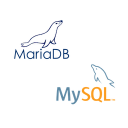
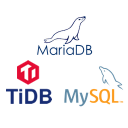
[Feature] TiDB driver and ssl options support (#1113)
* [Feature] TiDB driver and ssl options support

* [Document] Added TiDB to document

* Fix breakage caused by merge error

* Fix typecheck problem in /util during build

/util/cache/index.ts uses lru-cache@5.1.1 but TS module resolution
was overlooking this because its package.json lacks a `types` property.
Instead TS was finding lru-cache@7 in the root node_modules which is
pulled in by other package(s).

* Make multi-statement query show results

---------

Changed region(s): [[0.0938, 0.125, 0.7188, 0.6562], [0.4375, 0.5, 0.9688, 0.8438], [0.0312, 0.6875, 0.4062, 0.8125]]

diff --git a/packages/driver.mysql/src/ls/default.ts b/packages/driver.mysql/src/ls/default.ts
@@ -1,4 +1,4 @@
-import MySQLLib from 'mysql';
+import MySQLLib from 'mysql2';
 import AbstractDriver from '@sqltools/base-driver';
 import * as Queries from './queries';
 import fs from 'fs';
@@ -7,7 +7,7 @@ import {countBy} from 'lodash';
 import { parse as queryParse } from '@sqltools/util/query';
 import generateId from '@sqltools/util/internal-id';
 
-export default class MySQLDefault extends AbstractDriver<MySQLLib.Pool, MySQLLib.PoolConfig> implements IConnectionDriver {
+export default class MySQLDefault extends AbstractDriver<MySQLLib.Pool, MySQLLib.PoolOptions> implements IConnectionDriver {
   queries = Queries;
   public open() {
     if (this.connection) {
@@ -40,12 +40,9 @@ export default class MySQLDefault extends AbstractDriver<MySQLLib.Pool, MySQLLib
     return new Promise<MySQLLib.Pool>((resolve, reject) => {
       pool.getConnection((err, conn) => {
         if (err) return reject(err);
-        conn.ping(error => {
-          if (error) return reject(error);
-          this.connection = Promise.resolve(pool);
-          conn.release();
-          return resolve(this.connection);
-        });
+        this.connection = Promise.resolve(pool);
+        conn.release();
+        return resolve(this.connection);
       });
     });
   }
@@ -72,17 +69,18 @@ export default class MySQLDefault extends AbstractDriver<MySQLLib.Pool, MySQLLib
           if (error) return reject(error);
           try {
             const queries = queryParse(query.toString());
+            var resultAny: any = results;
 
             // Shape of results and fields is different when querystring contains multiple queries
             if (results && !Array.isArray(results[0]) && typeof results[0] !== 'undefined') {
-              results = [results];
+              resultAny = [results];
             }
             if (fields && !Array.isArray(fields[0]) && typeof fields[0] !== 'undefined') {
               fields = [fields];
             }
             
             return resolve(queries.map((q, i): NSDatabase.IResult => {
-              const r = results[i] || [];
+              const r = resultAny[i] || [];
               var f = fields[i] || [];
               const messages = [];
               if (r.affectedRows) {
@@ -114,12 +112,12 @@ export default class MySQLDefault extends AbstractDriver<MySQLLib.Pool, MySQLLib
     });
   }
 
-  private getColumnNames(fields: MySQLLib.FieldInfo[] = []): string[] {
+  private getColumnNames(fields: MySQLLib.FieldPacket[] = []): string[] {
     const count = countBy(fields, ({name}) => name);
     return fields.map(({table, name}) => count[name] > 1 ? `${table}.${name}` : name);
   }
 
-  private mapRows(rows: any[] = [], fields: MySQLLib.FieldInfo[] = []): any[] {
+  private mapRows(rows: any[] = [], fields: MySQLLib.FieldPacket[] = []): any[] {
     const names = this.getColumnNames(fields);
     return rows.map((row) => fields.reduce((r, {table, name}, i) => ({...r, [names[i]]: castResultsIfNeeded(row[table][name])}), {}));
   }

diff --git a/packages/driver.mysql/src/extension.ts b/packages/driver.mysql/src/extension.ts
@@ -3,7 +3,7 @@ import { IExtension, IExtensionPlugin, IDriverExtensionApi } from '@sqltools/typ
 import { DRIVER_ALIASES } from './constants';
 const AUTHENTICATION_PROVIDER = 'sqltools-driver-credentials';
 const { publisher, name } = require('../package.json');
-const driverName = 'MySQL/MariaDB';
+const driverName = 'MySQL/MariaDB/TiDB';
 export async function activate(extContext: vscode.ExtensionContext): Promise<IDriverExtensionApi> {
   const sqltools = vscode.extensions.getExtension<IExtension>('mtxr.sqltools');
   if (!sqltools) {
@@ -32,11 +32,18 @@ export async function activate(extContext: vscode.ExtensionContext): Promise<IDr
         default: extContext.asAbsolutePath('icons/mariadb/default.png'),
         inactive: extContext.asAbsolutePath('icons/mariadb/inactive.png'),
       });
+      // tidb
+      extension.resourcesMap().set(`driver/${DRIVER_ALIASES[2].value}/icons`, {
+        active: extContext.asAbsolutePath('icons/tidb/active.png'),
+        default: extContext.asAbsolutePath('icons/tidb/default.png'),
+        inactive: extContext.asAbsolutePath('icons/tidb/inactive.png'),
+      });
       DRIVER_ALIASES.forEach(({ value }) => {
         extension.resourcesMap().set(`driver/${value}/extension-id`, extensionId);
-        extension.resourcesMap().set(`driver/${value}/connection-schema`, extContext.asAbsolutePath('connection.schema.json'));
-        extension.resourcesMap().set(`driver/${value}/ui-schema`, extContext.asAbsolutePath('ui.schema.json'));
+        extension.resourcesMap().set(`driver/${value}/connection-schema`, extContext.asAbsolutePath("connection.schema.json"));
+        extension.resourcesMap().set(`driver/${value}/ui-schema`, extContext.asAbsolutePath("ui.schema.json"));
       });
+
       await extension.client.sendRequest('ls/RegisterPlugin', { path: extContext.asAbsolutePath('out/ls/plugin.js') });
     }
   };

diff --git a/packages/driver.mysql/src/constants.ts b/packages/driver.mysql/src/constants.ts
@@ -3,4 +3,5 @@ import { IDriverAlias } from '@sqltools/types';
 export const DRIVER_ALIASES: IDriverAlias[] = [
   { displayName: 'MySQL', value: 'MySQL'},
   { displayName: 'MariaDB', value: 'MariaDB'},
+  { displayName: 'TiDB', value: 'TiDB'},
 ];

diff --git a/packages/util/cache/index.ts b/packages/util/cache/index.ts
@@ -1,4 +1,4 @@
-import LRUCache from 'lru-cache';
+import LRUCache from '../node_modules/lru-cache';
 import { createLogger } from '@sqltools/log/src';
 
 const ONE_DAY_MS = 24 * 60 * 60 * 1000;

diff --git a/README.md b/README.md
@@ -48,6 +48,7 @@ Psst… we’re always on the lookout for maintainers for the official drivers, 
 | ![MariaDB](https://raw.githubusercontent.com/mtxr/vscode-sqltools/dev/packages/driver.mysql/icons/mariadb/default.png)       | MariaDB                    | [Link](https://marketplace.visualstudio.com/items?itemName=mtxr.sqltools-driver-mysql)  | [packages/driver.mysql](https://github.com/mtxr/vscode-sqltools/tree/dev/packages/driver.mysql)   |
 | ![MSSQL](https://raw.githubusercontent.com/mtxr/vscode-sqltools/dev/packages/driver.mssql/icons/default.png)                 | Microsoft SQL Server/Azure | [Link](https://marketplace.visualstudio.com/items?itemName=mtxr.sqltools-driver-mssql)  | [packages/driver.mssql](https://github.com/mtxr/vscode-sqltools/tree/dev/packages/driver.mssql)   |
 | ![MySQL](https://raw.githubusercontent.com/mtxr/vscode-sqltools/dev/packages/driver.mysql/icons/default.png)                 | MySQL                      | [Link](https://marketplace.visualstudio.com/items?itemName=mtxr.sqltools-driver-mysql)  | [packages/driver.mysql](https://github.com/mtxr/vscode-sqltools/tree/dev/packages/driver.mysql)   |
+| ![TiDB](https://raw.githubusercontent.com/mtxr/vscode-sqltools/dev/packages/driver.mysql/icons/tidb/default.png)       | TiDB                       | [Link](https://marketplace.visualstudio.com/items?itemName=mtxr.sqltools-driver-mysql)  | [packages/driver.mysql](https://github.com/mtxr/vscode-sqltools/tree/dev/packages/driver.mysql)   |
 | ![PostgreSQL](https://raw.githubusercontent.com/mtxr/vscode-sqltools/dev/packages/driver.pg/icons/pg/default.png)            | PostgreSQL                 | [Link](https://marketplace.visualstudio.com/items?itemName=mtxr.sqltools-driver-pg)     | [packages/driver.pg](https://github.com/mtxr/vscode-sqltools/tree/dev/packages/driver.pg)         |
 | ![SQLite](https://raw.githubusercontent.com/mtxr/vscode-sqltools/dev/packages/driver.sqlite/icons/default.png)               | SQLite                     | [Link](https://marketplace.visualstudio.com/items?itemName=mtxr.sqltools-driver-sqlite) | [packages/driver.sqlite](https://github.com/mtxr/vscode-sqltools/tree/dev/packages/driver.sqlite) |
 

diff --git a/packages/driver.mysql/README.md b/packages/driver.mysql/README.md
@@ -1,4 +1,4 @@
-# SQLTools MySQL/MariaDB Driver
+# SQLTools MySQL/MariaDB/TiDB Driver
 
 This package is part of [vscode-sqltools](https://vscode-sqltools.mteixeira.dev/?umd_source=repository&utm_medium=readme&utm_campaign=mysql) extension.
 
